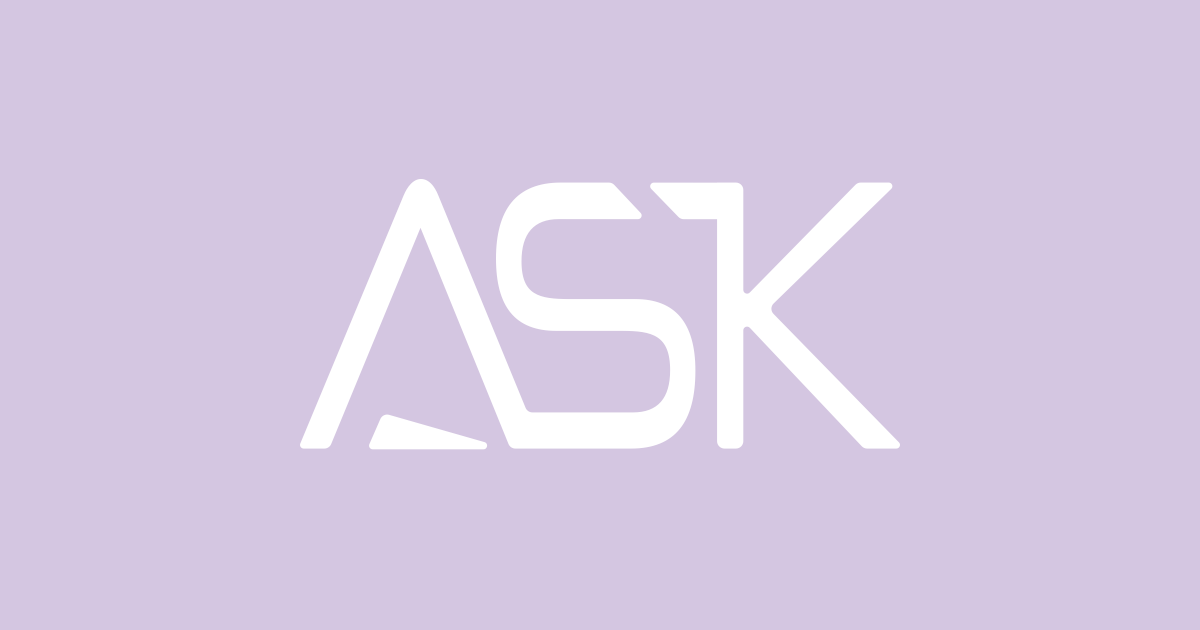
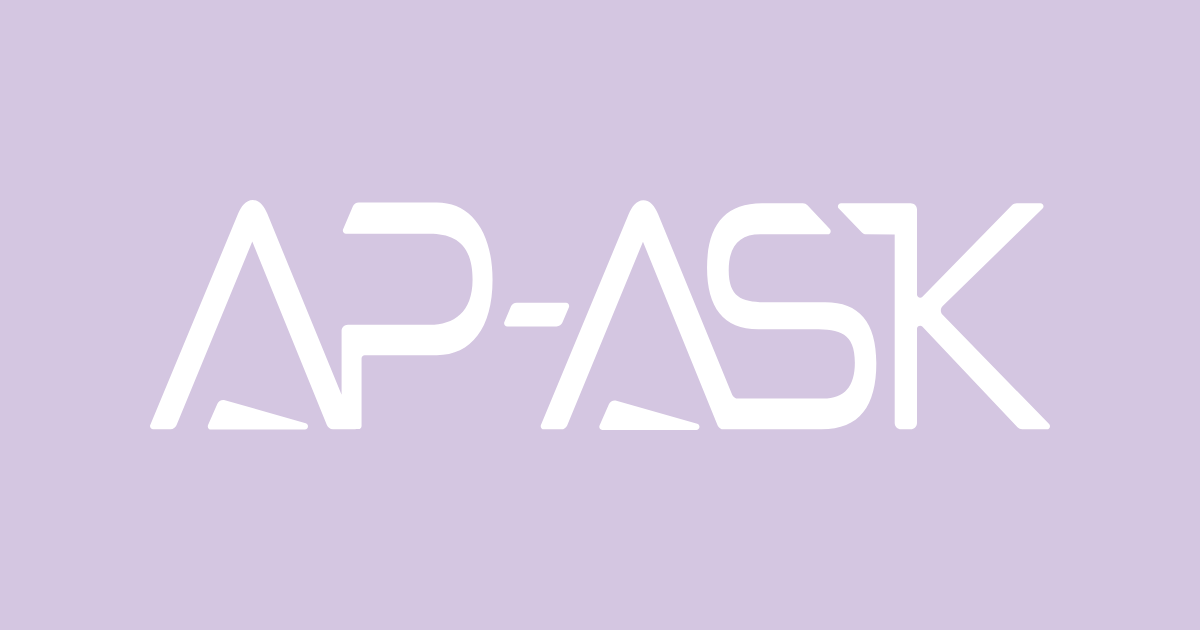
docs(site): carry the AP-ASK wordmark on the link-preview card (#448)
The site's social-preview context is now assigned the AP-ASK card
(design-system-ASK#197). Add the AP-ASK wordmark as docs/logo-AP-ASK.svg,
replace docs/og-image.png with the card rendered from it (white mark,
900px wide, centered on a 1200 x 630 lavender-ASK field), and set the
declared and authored image alt text to "AP-ASK wordmark on lavender
background".

The home page's SHARE CARD comment, the gallery's TIER BOUNDARY comment,
the diagrams README and NOTICE now describe the AP-ASK card, and say that
the card's mark does not replace the shell's ASK wordmark pair.

No change to the shell marks, browser icons, image URL, page titles or
descriptions, diagrams, renderer code or vercel.json.

Changed region(s): [[0.1233, 0.2714, 0.8942, 0.7238]]

diff --git a/docs/index.html b/docs/index.html
@@ -16,12 +16,12 @@
 <meta property="og:image:type" content="image/png">
 <meta property="og:image:width" content="1200">
 <meta property="og:image:height" content="630">
-<meta property="og:image:alt" content="ASK wordmark on lavender background">
+<meta property="og:image:alt" content="AP-ASK wordmark on lavender background">
 <meta name="twitter:card" content="summary_large_image">
 <meta name="twitter:title" content="AP-ASK // An architecture for creative intent">
 <meta name="twitter:description" content="AP-ASK articulates and encodes a brand’s visual language and creative judgment as a clear, reusable system for image production.">
 <meta name="twitter:image" content="https://asset-pipeline.a-s-k.studio/og-image.png">
-<meta name="twitter:image:alt" content="ASK wordmark on lavender background">
+<meta name="twitter:image:alt" content="AP-ASK wordmark on lavender background">
 <link rel="icon" type="image/svg+xml" href="/favicon.svg">
 <link rel="icon" type="image/png" sizes="32x32" href="/favicon-32.png">
 <link rel="apple-touch-icon" href="/apple-touch-icon.png">
@@ -88,11 +88,13 @@
      1100px is --surface-shell-content-max and 64px is twice --space-6, the
      page's side padding. A re-vendor that changes either must update sizes.
 
-     SHARE CARD. Link previews carry the ASK card, og-image.png at the deployed
-     root, a byte-identical copy of the A-S-K.studio card. It is declared
-     explicitly so that a platform falling back to the page's own images never
-     picks the figure, and vercel.json serves the figure's files noindex so that
-     search results do not use it as the page's thumbnail.
+     SHARE CARD. Link previews carry the AP-ASK card, og-image.png at the
+     deployed root: the AP-ASK wordmark, logo-AP-ASK.svg, drawn in white 900px
+     wide and centered on a 1200 x 630 lavender-ASK (#d4c6e1) field. It is
+     declared explicitly so that a platform falling back to the page's own
+     images never picks the figure, and vercel.json serves the figure's files
+     noindex so that search results do not use it as the page's thumbnail. The
+     card's mark does not replace the shell's ASK wordmark pair.
 
      HEADINGS. The shell's structural title — the breadcrumbed h1, "ASK // apex
      solar kiss // AP-ASK" — is the family locator every shell page carries. The

diff --git a/docs/diagrams/index.html b/docs/diagrams/index.html
@@ -16,12 +16,12 @@
 <meta property="og:image:type" content="image/png">
 <meta property="og:image:width" content="1200">
 <meta property="og:image:height" content="630">
-<meta property="og:image:alt" content="ASK wordmark on lavender background">
+<meta property="og:image:alt" content="AP-ASK wordmark on lavender background">
 <meta name="twitter:card" content="summary_large_image">
 <meta name="twitter:title" content="asset-pipeline-ASK // diagrams">
 <meta name="twitter:description" content="asset-pipeline-ASK // six illustrative figures of four objects — three views of the governed visual-payload information architecture (ontology, visual payload architecture, inheritance), the bounded-generativity system model, the repo architecture tree, and the interactive architecture-state spine.">
 <meta name="twitter:image" content="https://asset-pipeline.a-s-k.studio/og-image.png">
-<meta name="twitter:image:alt" content="ASK wordmark on lavender background">
+<meta name="twitter:image:alt" content="AP-ASK wordmark on lavender background">
 <link rel="icon" type="image/svg+xml" href="/favicon.svg">
 <link rel="icon" type="image/png" sizes="32x32" href="/favicon-32.png">
 <link rel="apple-touch-icon" href="/apple-touch-icon.png">
@@ -54,9 +54,10 @@
      ASK-assigned Tier-3 value in the shell's mark slot. The six figures it
      indexes remain Tier 1 + Tier 2 only — the assignment does not propagate
      into them, does not make asset-pipeline-ASK ASK-the-entity, and does not
-     come from surface-shell, which ships a slot and no mark. Any future
-     independent asset-pipeline-ASK brand is a separate identity migration.
-     See README.md.
+     come from surface-shell, which ships a slot and no mark. The page's
+     link-preview card carries the AP-ASK wordmark under a separate
+     assignment, which does not replace this one; changing either is a
+     separate identity decision. See README.md.
 
      GROUPED BY OBJECT, NOT BY FORM. The six figures represent four different
      objects, and the page orders them by the object each one represents. The

diff --git a/docs/diagrams/README.md b/docs/diagrams/README.md
@@ -100,9 +100,9 @@ The **diagram gallery** ([`index.html`](index.html), below) is this folder's ori
 
 Both panel forms are in use and divide as the modules intend: the six diagram cards are **inert panels carrying their own action links**, while the repository / asset-pipeline-ASK / method-ASK / design-system-ASK / A-S-K.studio routes are **full-panel links**. Panel support-copy foreground and action-row composition remain asset-pipeline-ASK-local. Each card links the prose document that owns what its figure draws, where a current public owner exists; the state spine carries no such action rather than borrowing one. **The two figures that keep a committed raster expose it directly** — the `PNG` action opens the committed file their governing prose embeds, and no raster is generated or regenerated by this surface.
 
-**Tier boundary.** The page carries an **ASK-assigned Tier 3** value in the shell's mark slot. That is a property of the navigation surface: it does **not** propagate into the six Tier 1 + Tier 2 figures it indexes, does **not** make asset-pipeline-ASK ASK-the-entity, and does **not** come from `surface-shell`, which ships a mark slot and no mark. ASK branding is the current settled assignment; any later independent asset-pipeline-ASK brand is a separate identity migration.
+**Tier boundary.** The page carries an **ASK-assigned Tier 3** value in the shell's mark slot. That is a property of the navigation surface: it does **not** propagate into the six Tier 1 + Tier 2 figures it indexes, does **not** make asset-pipeline-ASK ASK-the-entity, and does **not** come from `surface-shell`, which ships a mark slot and no mark. ASK branding is the mark slot's current settled assignment. The page's link-preview card carries the AP-ASK wordmark under a separate assignment, which does not replace it; changing either is a separate identity decision.
 
-[`vercel.json`](../vercel.json) at the deployed `docs/` root states the deployment contract: it runs the site build (`tools/read/`), which serves `docs/` as authored, except the two composed front doors, this folder's `index.html` and the landing page, plus reading pages under `/read/`; `/` serves the AP-ASK landing page (`../index.html`) as the static index, composed by the build only to render its build-only links, and that page links this folder's `index.html`, the technical documentation under `/read/` and the repository as its technical destinations; its redirects send `/diagrams` to `/diagrams/` and `/read` to `/read/`, and the retired atlas's page, builder and generated source view to `/diagrams/`; four security headers apply across the surface, the vendored font and wordmark paths revalidate rather than caching immutably, and the landing page's figure files under `../images/` are served `noindex`, so search results do not use the figure as the page's image; the page's declared `og:image` is the ASK card.
+[`vercel.json`](../vercel.json) at the deployed `docs/` root states the deployment contract: it runs the site build (`tools/read/`), which serves `docs/` as authored, except the two composed front doors, this folder's `index.html` and the landing page, plus reading pages under `/read/`; `/` serves the AP-ASK landing page (`../index.html`) as the static index, composed by the build only to render its build-only links, and that page links this folder's `index.html`, the technical documentation under `/read/` and the repository as its technical destinations; its redirects send `/diagrams` to `/diagrams/` and `/read` to `/read/`, and the retired atlas's page, builder and generated source view to `/diagrams/`; four security headers apply across the surface, the vendored font and wordmark paths revalidate rather than caching immutably, and the landing page's figure files under `../images/` are served `noindex`, so search results do not use the figure as the page's image; the page's declared `og:image` is the AP-ASK card.
 
 ## Theme by embedding surface (adopted convention)
 
